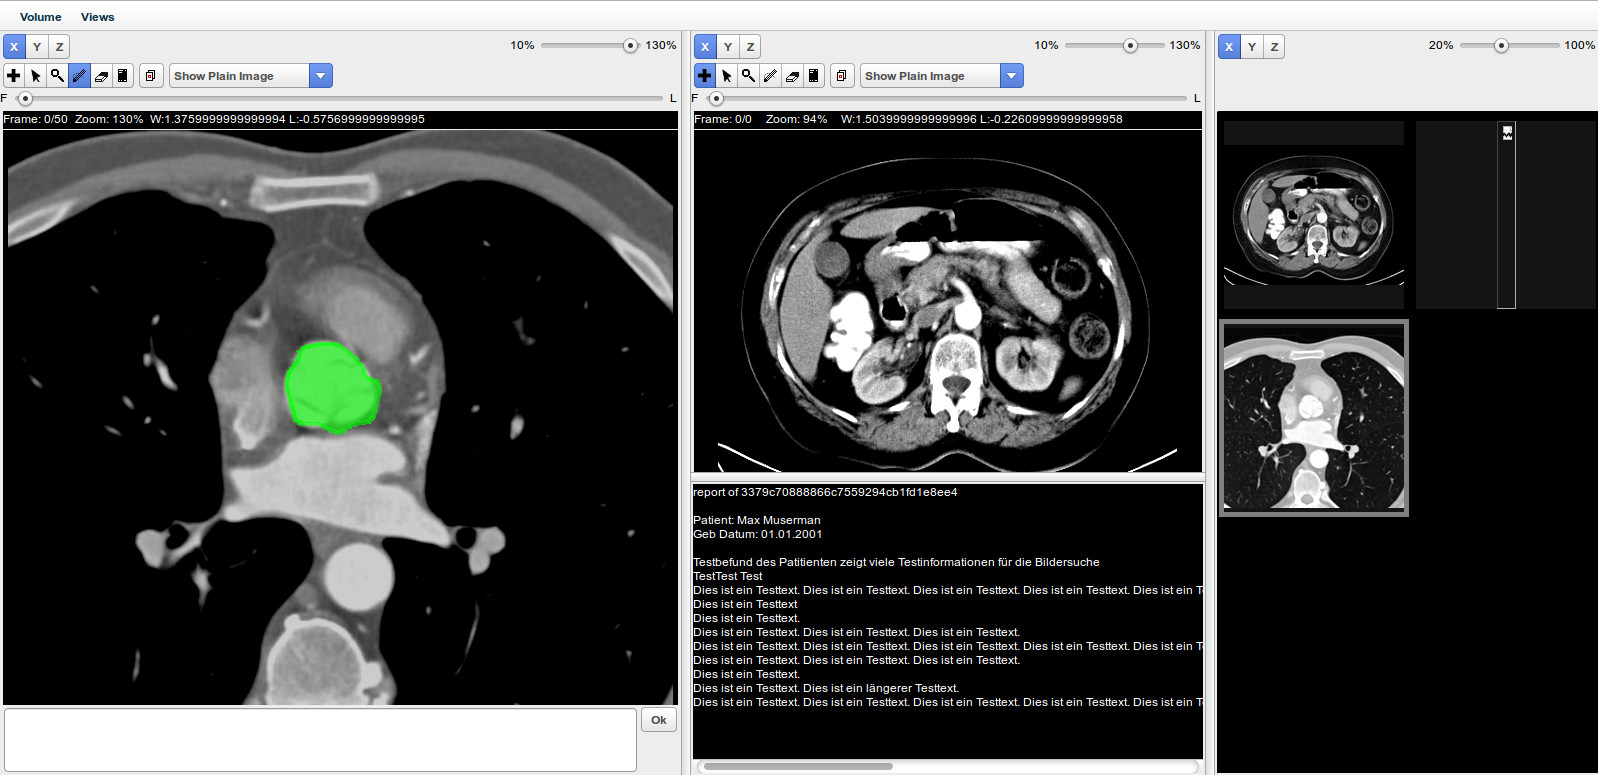
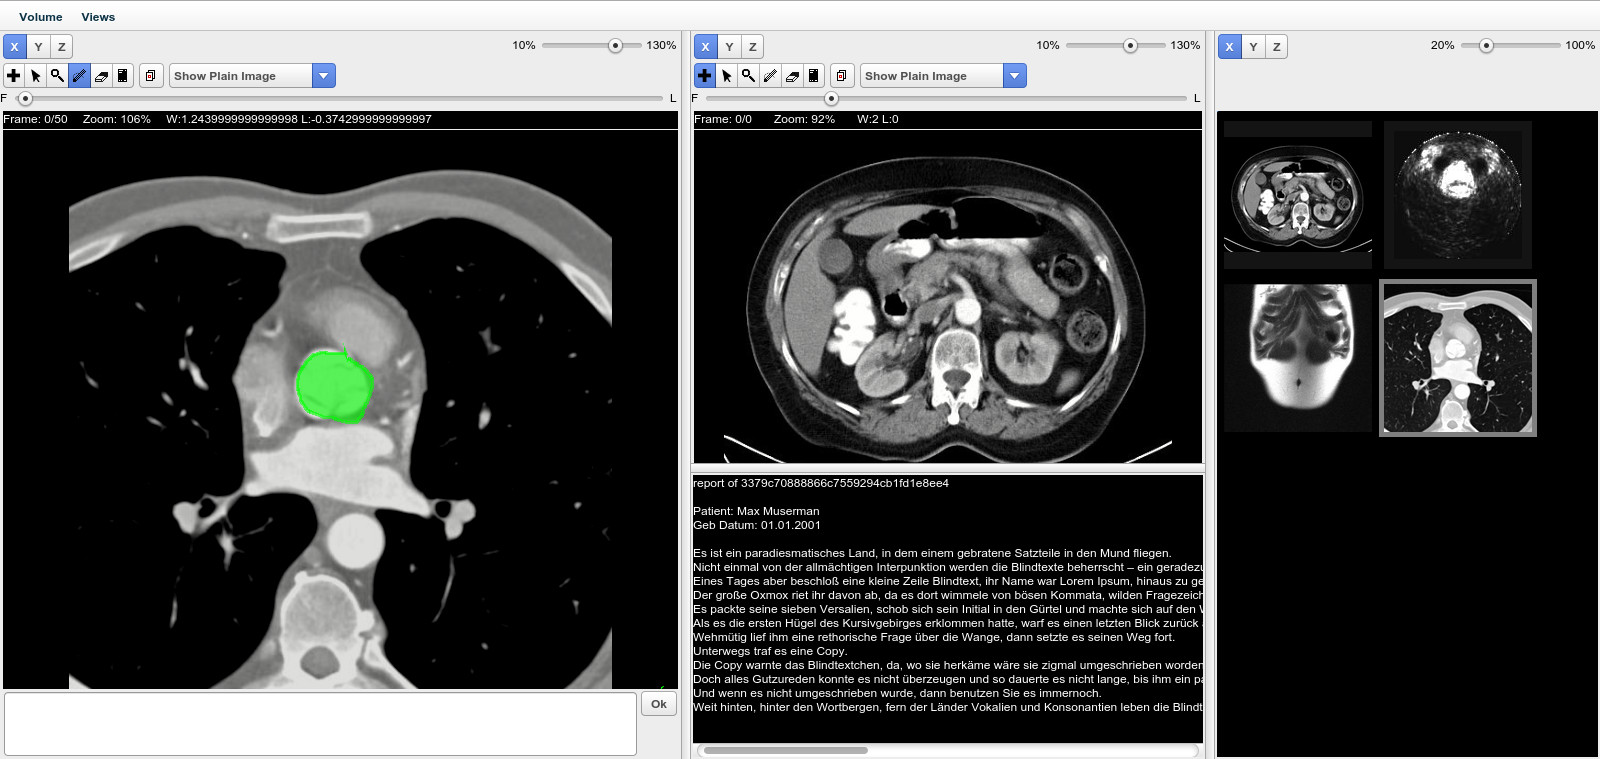
Kapitel3: Umsetzung - Framework für dynamische Layouts geschrieben

diff --git a/s3_methodology.tex b/s3_methodology.tex
@@ -174,7 +174,7 @@ Entsprechend dieses Ablaufs wird beim Start der Applikation eine Liste mit allen
 aus welchen einer als Einstiegspunkt in die Suche ausgewählt werden kann.
 Dieser Datensatz wird in den Betrachter der Haupansicht \ref{fig:omip_aplication_layout} geladen.
 Die Haupansicht setzt sich aus verschiedenen Interaktions-Elementen (Views) zusammen,
-welchen in mehreren möglichen Layouts mit unterschiedlicher Multiplizität und Anordnung miteinander kombiniert werden.
+welche in mehreren möglichen Layouts mit unterschiedlicher Multiplizität und Anordnung miteinander kombiniert werden.
 Von diesen Elementen gibt es Vier verschiedene Typen:
 \begin{itemize}
 	\item Betrachtungsansicht für Volumes (2D-Betrachter)
@@ -187,7 +187,7 @@ unter der Prämisse dass die Bedienelemente der einzelnen Views genügend Platz 
 Auf den Funktionsumfang des 2D-Betrachters und der Ergebnis-Liste wird in den folgenden Unterkapiteln etwas genauer eingegangen.
 \begin{figure}[t]
 	\centering
-		\includegraphics[width=0.8\linewidth]{img/c3_application_standard.jpg}
+		\includegraphics[width=\linewidth]{img/c3_application_standard.jpg}
 	\caption{Hauptansicht mit Layout für zwei 2D-Betrachter, Report-Betrachter und Ergebnis-Liste}
 	\label{fig:omip_aplication_layout}
 \end{figure}
@@ -218,7 +218,7 @@ In allen anderen Funktionen ist das Scrollen immer an die Navigation durch die S
 \label{sec:Funktionalität der Ergebniss-Liste}
 Die Ergebnis-Liste präsentiert die Ergebnisse einer Suche welches sie über Drag and Drop in einen Betrachter laden lassen.
 Die Präsentation erfolgt über ein Vorschaubild welches von KRESHMOI als repräsentatives Bild für die Suche gewählt wurde.
-Um ein Suchergebniss im Vorfeld zu Beurteilen verfügt die Ergebnis-List ebenfalls über die Funktion die Orientierung der Schnitte des Volumes zu ändern und die Vorschaubilder zu zoomen.
+Um eine Beurteilung der Suchergebnisse im Vorfeld zu ermöglichen, verfügt die Ergebnis-List ebenfalls über die Funktion die Orientierung der Schnitte des Volumes zu ändern und die Vorschaubilder zu zoomen.
 
 %----------------------------------------------
 % * Technische Umsetzung
@@ -226,13 +226,41 @@ Um ein Suchergebniss im Vorfeld zu Beurteilen verfügt die Ergebnis-List ebenfal
 \subsection{Technische Umsetzung}
 \label{sec:Technische Umsetzung}
 In dem Unterkapitel Technische Umsetzung wird im Groben die Archtiktur der Applikation sowie von komplexeren Komponenten erklärt und auf wichtige Details bei deren Umsetzung eingegangen.
-Weiters wird angegeben wie die Fensterung mit zwei verschidenen Technologie implementiert wurde.
+Weiters wird angegeben wie die Fensterung mit zwei verschiedenen Technologien implementiert wurde.
 
 %----------------------------------------------
 % ** Umsetzung der dynamischen Layouts
 %----------------------------------------------
 \subsubsection{Framework für dynamischen Layouts}
 \label{sec:Umsetzung der dynamischen Layouts}
+Das eines der zentralen Konzepete bei der Darstellung von Bedien- und Anzeige-Elementen in Cappuccino ist die View Klasse (Siehe Figure \ref{fig:cappuccino_view_concept} ), 
+von welcher all diese Elemente erben.
+In eine View können wiederum weitere Sub-Views eingehängt und innerhalb dieser Positioniert werden.
+Die Darstellung der Elemente erfolgt in einem Fenster, welche als erste View in der Hirachie ihre sogenannte ContentView zur Verfügung stellt.
+\begin{figure}[t]
+	\centering
+	\includegraphics[width=0.6\linewidth]{img/c3_cappuccino_view_concept.jpg}
+	\caption{Konzept zum Aufbau von GUIs durch die Veschachtelung von View-Objekten in Cappuccino}
+	\label{fig:cappuccino_view_concept}
+\end{figure}
+\begin{figure}[t]
+	\centering
+	\includegraphics[width=\linewidth]{img/s3_layoutController_framework.jpg}
+	\caption{Framework zum für den Layout-Austausch}
+	\label{fig:layout_framework}
+\end{figure}
+
+Auch die funktionalen Blöcke in welche diese Software eingeteilt wurde, 
+im weiteren as Superelemente bezeichnet, 
+erben von dieser View-Klasse, 
+wodurch Sie in einer übergeordneten View einfach in verschiedenen Layouts angeordnet werden können.
+Die Anordung der Superelemente sowie die Kommunikation zwischen ihnen erfolgt in einem LayoutController.
+Der LayoutController kapselt das von Ihm erstellte Layout in einer LayoutView welche dann in die ContentView des Fensters eingehängt wird.
+Durch dieses Konzept (Siehe Figure \ref{fig:layout_framework} ) lassen sich die Anzahl und Anordung der Superelemente einfach zur Laufzeit ändern,
+da bei einer Änderung nur ein neuer LayoutController instanziert und seine LayoutView gegen die akutelle in der ContentView getauscht werden muss.
+Zur Erhaltung der Nutzdaten muss jeder LayoutController Funktionen zum Setzen und Abfragen dieser zur Verfügung stellen.
+Die Behandlung von Layout-Änderungen finden im LayoutControllerManager statt, 
+welcher sich um den Austausch der LayoutView kümmert und die Nutzdaten vom alten in den neuen LayoutController überträgt.
 
 %----------------------------------------------
 % ** Berehnung der Fensterung
@@ -251,14 +279,16 @@ Für diese Berechnung wurde ein Ansatz auf Basis von JavaScript durch die Canvas
 Für die graphische Ausgabe im Browser wird ein HTML5 Canvas Element verwendet,
 auf welches über ein sogenanten Grafikkontext zugegriffen werden kann. 
 Dieser Grafikkontext wird in JavaScript vom Browser als Objekt zur Verfügung gestellt.
-Durch das Kontext-Objekt kann der Bildinhalt in ein Array von Farbwerten und umgekehrt auch ein Array von Farbwerten in das Bild geschrieben werden.
+Durch das Kontext-Objekt kann der Bildinhalt in ein Array von Farbwerten ausgegeben und umgekehrt auch ein Array von Farbwerten in das Bild geschrieben werden.
 Dabei wird das Bild zeilenweise in ein eindimensionales Array Serialisiert, 
 wo jeder Bildpunkt auf 4 Speicherstellen mit einem Integer-Wert zwischen 0 und 255 abgebildet wird.
 Die ersten drei Speicherstellen bilden den Farbwert durch die Anteile von Rot, Grün, Blau und die vierte den Alpha Kanal.
 Für die Fensterung müssen alle Speicherstellen für die Farbe transformiert und wieder auf einen Integer Wert gerundet werden.
 %
-Um unnötige Berechnungen für jedes einzelne Pixel zu sparen, werden pro Fensterungsschritt alle Pixelwerte zwischen 0 und 255 einmal vor berechnet und in einer LookUp Tabelle als Array gespeichert.
-Anstatt den Wert für jedes Pixel neu zu berechen und zu runden fungiert bei diesem Ansatz der aktuelle Wert eines Pixels als Schlüssel für die Tabelle welche den neuen Wert des Pixels enthält.
+Um unnötige Berechnungen für jedes einzelne Pixel zu sparen, 
+werden pro Fensterungsschritt alle Pixelwerte zwischen 0 und 255 einmal vor berechnet und in einer LookUp Tabelle als Array gespeichert.
+Anstatt den Wert für jedes Pixel neu zu berechen und zu runden fungiert bei diesem Ansatz der aktuelle Wert eines Pixels als Schlüssel für die Tabelle, 
+welche den neuen Wert des Pixels enthält.
 Die Anzahl der Operationen wird dabei auf 255 Berechnungen und die Anzahl der Speicherzugriffe pro Bildpunkt sowie die der LookUp Tabelle reduziert.
 \begin{figure}[t]
 \begin{lstlisting}[
@@ -351,7 +381,7 @@ void main() {
 \subsubsection{2D Betrachter}
 \label{sec:2D Betrachter}
 Für die Implementierung des 2D-Betrachters wurde neben Cappuccino für die Bedienelemente auch noch Pixi.JS für das Grafikfenster zur Darstellung des Volumes verwendet.
-Der Inhalt des Grafikfensters ergibt sich aus den inhalt von mehreren übereinanderliegenden Layern.
+Der Inhalt des Grafikfensters ergibt sich aus den Inhalten von mehreren übereinanderliegenden Layern.
 \begin{itemize}
 	\item \textbf{ImageLayer} zur Darstellung der Schnitte des Volumes
 	\item \textbf{AnotationLayer} zum zeichnen der ROIs
@@ -362,7 +392,7 @@ Bei diesen Layern werden Skalierung und Positionierung nur auf den ImageLayer un
 Um die Software möglichst erweiterbar zu gestalten,
 wurde eine LayerKlasse $PixiLayer$ entwickelt welcher eine beliebige Menge von Sublayern hizugefügt werden kann.
 Dabei wird zwischen statischen Sublayern welche jeweils nur die Anzeigefläche ausfüllen und dynamischen Sublayern welche gemeinsam skaliert und positioniert werden können unterschieden.
-Diese Layerklasse erledigt auch die konvertierung von Punkten zwischen den dynamischen und den statischen Sublayern, in Hisicht auf Postion, Skalierung und Layerdimension.
+Diese Layerklasse erledigt auch die Konvertierung von Punkten zwischen den dynamischen und den statischen Sublayern, in Hisicht auf Postion, Skalierung und Layerdimension.
 Da die restliche GUI mit Cappuccino aufgebaut wurde und dieses Framework auch die Ereignisse für Größenänderungen der einzelen Views behandelt,
 müssen diese vom ViewObjekt welches den 2D-Betrachter Kapselt an das Grafikfenster weiter gegeben werden.
 Ansonsten ist das Pixi.JS basierte Grafikfenster durch die LayerKlassen bis auf Funktionen zur Übergabe der Anzeigedaten und zur Punktkonvertierung vom 2D-Betrachter abgeschottet.
@@ -374,6 +404,10 @@ Die Betrachter-Klasse selbst ist hauptsächlich für die Erstelltung der Bediene
 	\caption{Struktur des 2D-Betrachters als Klassendiagramm}
 	\label{fig:omip_aplication_layout}
 \end{figure}
+
+Die Umsetzung der Fensterung im 2D-Betrachter erfolgte wegen der wesentlich besseren Performance in WebGL, 
+was der Grund für die Auswahl von Pixi.JS als Grafik-Framework ist.
+Die Fensterung wurde in einem Filter für Pixi.JS implementiert (Siehe Kapitel \ref{sec:PixiJS} ), welcher den GLSL-Shadercode auf das Schnittbild des Volumes anwendet.
 
 %----------------------------------------------
 % * Kommunikation mit KRESHMOI
@@ -466,9 +500,16 @@ Für die Schnittebene gibt es entsprechende der Terminologie für die Bildgebung
 Sollen die Regionen welche der Suchanfrage entsprechen in den einzelnen Bildern markiert werden, muss die Query-ID mit übergeben werden um die ursprüngliche Suchanfrage zu identifizieren.
 \\
 \\
-Beispiel:
-\\
-\url{/image/9587336b132b127b936ad0afd80ca86.jpg?slice=1&direction=axial&query=1}
+\begin{figure}[t]
+\begin{lstlisting}[
+	frame=single,
+	basicstyle=\small,
+	caption={Beispiel-Anfrage für eine Schnittbild}
+]
+image/958736b132b7b936ad0afd80ca86.jpg?slice=1&direction=axial&query=1
+\end{lstlisting}
+\end{figure}
+
 %TODO: Prüfen ob URL ok
 %TODO: Zitieren von KRESHMOI API
 %TODO: Zitieren der Schnittebenen

diff --git a/cvl_bachelor_thesis.tex b/cvl_bachelor_thesis.tex
@@ -38,7 +38,7 @@
 
 \lstdefinelanguage{json}{
     numbers=left,
-    numberstyle=\scriptsize,
+    numberstyle=\small,
     stepnumber=1,
     showstringspaces=false,
     breaklines=true,
@@ -104,15 +104,15 @@
 \lstdefinelanguage{JavaScript}{
   sensitive=true,
   keywords={typeof, new, true, false, catch, function, return, null, catch, switch, var, if, in, while, do, else, case, break, for},
-  basicstyle=\color{black}\texttt\small,
-  keywordstyle=\color{blue}\texttt,
+  basicstyle=\color{black}\small,
+  keywordstyle=\color{blue}\small,
   ndkeywords={class, export, boolean, throw, implements, import, this},
-  ndkeywordstyle=\color{darkgray}\texttt,
+  ndkeywordstyle=\color{darkgray}\small,
   identifierstyle=\color{black},
   comment=[l]{//},
   morecomment=[s]{/*}{*/},
-  commentstyle=\color{purple}\texttt,
-  stringstyle=\color{red}\texttt,
+  commentstyle=\color{purple}\small,
+  stringstyle=\color{red}\small,
   %morestring=[b]',
   numbers=left,
   numberstyle=\small,
@@ -211,9 +211,9 @@
   morecomment=[l]{//},
   morecomment=[s]{/*}{*/},
   morecomment=[l][keywordstyle4]{\#},
-  keywordstyle=\color{blue}\texttt,
+  keywordstyle=\color{blue}\small,
   numbers=left,
-  numberstyle=\scriptsize,
+  numberstyle=\small,
   stepnumber=1,
   showstringspaces=false,
   breaklines=true,
@@ -291,15 +291,14 @@
 \tableofcontents
 % put your abstract here
 \abstract{
-Diese Arbeit behandelt die Entwicklung einer \R{Web-}Benutzeroberfl"ache f"ur eine Bildsuchmaschiene zum Durchsuchen von \R{3D-Daten}\Rd{Bildern} aus radiologischen bildgebenden Verfahren\Rd{ f"ur 2D und 3D als Web-Applikation}.
-\Rd{Die Benutzeroberfl"ache dient als Frontend f"ur die Radiologie-Suche des KRESHMOI-Systems.}
+Diese Arbeit behandelt die Entwicklung einer Web-Benutzeroberfl"ache f"ur eine Bildsuchmaschiene zum Durchsuchen von 3D-Daten aus radiologischen bildgebenden Verfahren.
 
 Im Rahmen der Arbeit werden die beiden Betrachtungsprogrammen f"ur radiologische Datens"atze OsiriX und Afga Impax DS3000 im Bezug auf Funktionsumfang und Bedienung analysiert. 
 
 Es wird der Funktionsumfang des entwickelten Betrachters sowie die Tools zum erstellen der Bild-Query und zur Pr"asentation der Ergebnisse beschrieben.
-Weiters wird erkl"art wie die Software mit dem HTML5 Frameworks Cappuccino und Pixi.JS umgesetzt wurde und es werden zwei Ans"atze zur lokalen Nachbearbeitung der Bilder mit der Canvas 2D API und mit WebGL beschrieben und im Bezug auf ihre Performance \Rd{getestet}\R{untersucht}.
+Weiters wird erkl"art wie die Software mit dem HTML5 Frameworks Cappuccino und Pixi.JS umgesetzt wurde und es werden zwei Ans"atze zur lokalen Nachbearbeitung der Bilder mit der Canvas 2D API und mit WebGL beschrieben und im Bezug auf ihre Performance untersucht.
 
-Von den beiden Verfahren f"uhrte nur das \R{r}endering mit WebGL zu einem ausreichend schnellen Ergebniss, welches auch im entwickelten Betrachter implementiert wurde.
+Von den beiden Verfahren f"uhrte nur das rendering mit WebGL zu einem ausreichend schnellen Ergebniss, welches auch im entwickelten Betrachter implementiert wurde.
 }
 \clearpage
 \pagenumbering{arabic}
